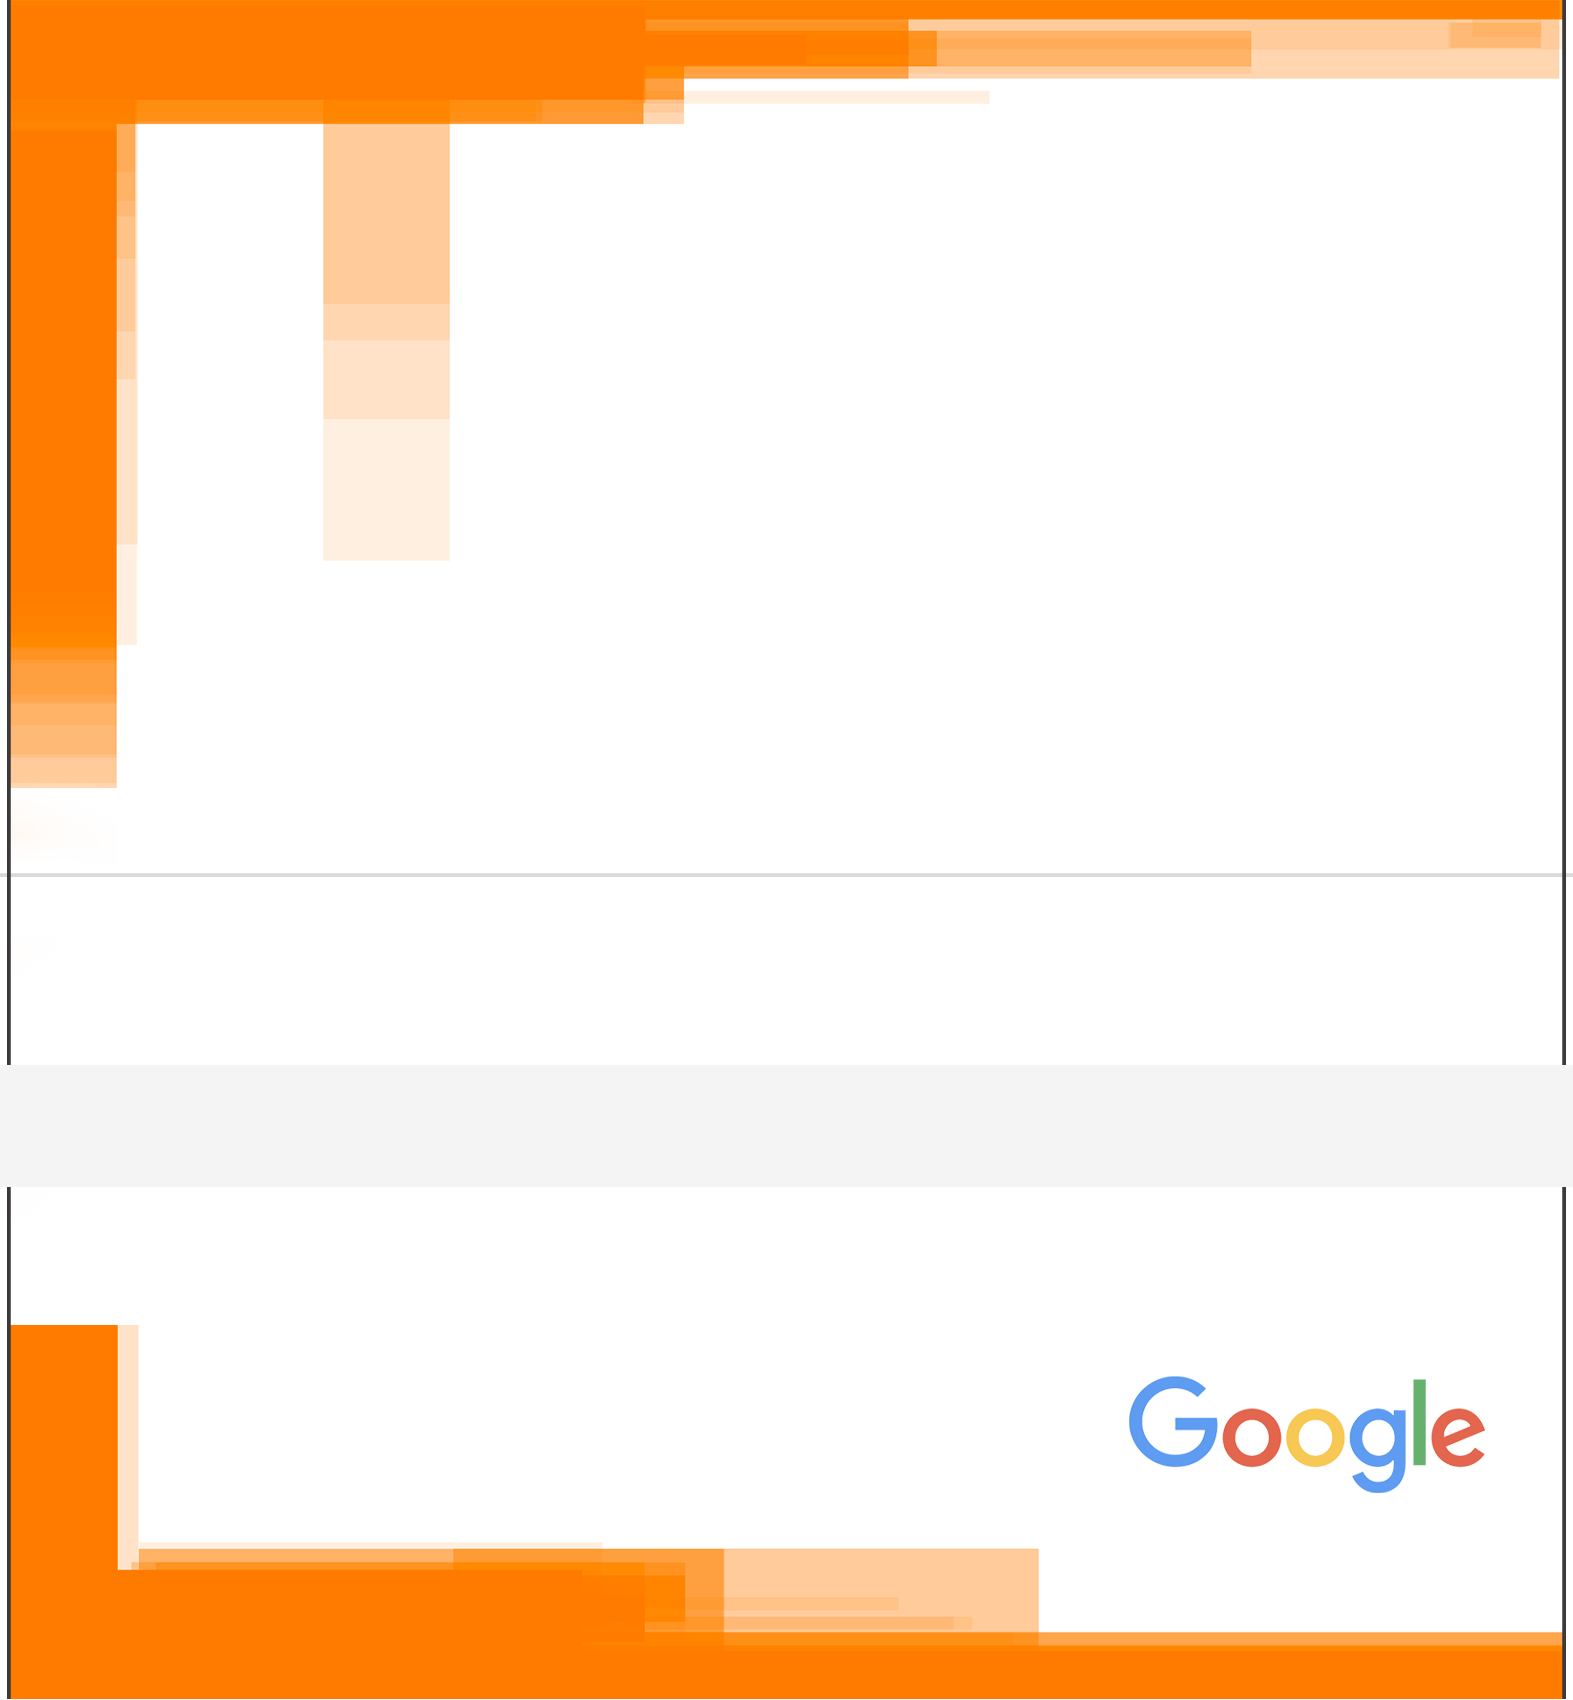
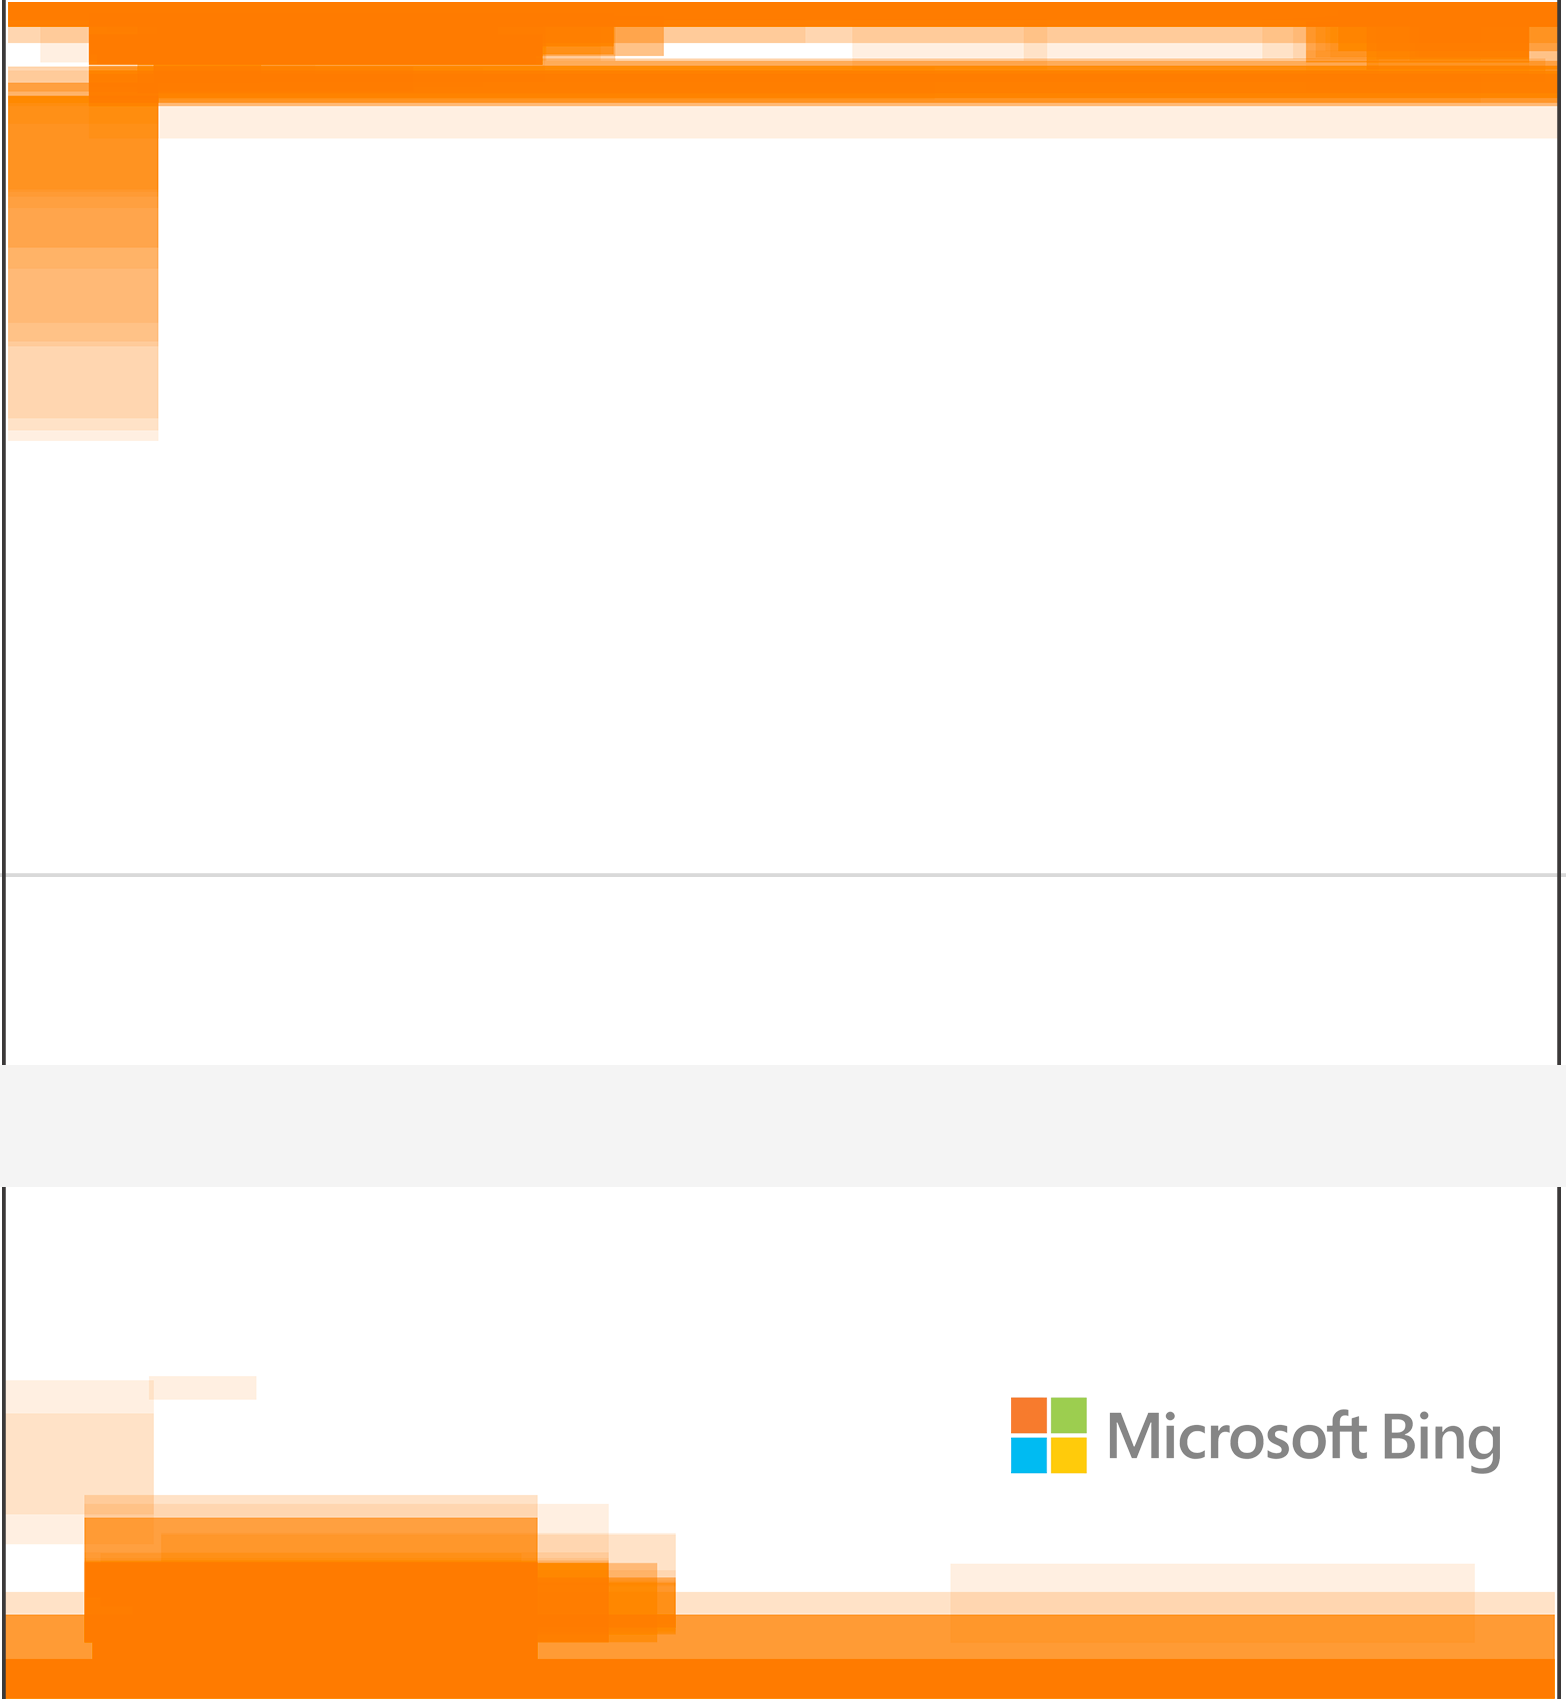
bing timelines aligned in time

Changed region(s): [[0.0, 0.0, 1.0, 0.6235], [0.0, 0.6859, 1.0, 1.0]]

diff --git a/pages/design.js b/pages/design.js
@@ -11,11 +11,11 @@ import interfaces_evol, {
   navigation_evol,
 } from "../data/interfaces";
 
-export function dynamicTimeline(category, engine) {
+export function dynamicTimeline(category, engine, decade) {
   const entries_engine =
     engine == "G"
       ? [
-          interfaces_evol.google,
+          decade == 1 ? interfaces_evol.google_fd : interfaces_evol.google_sd,
           logo_evol.google,
           statistics_evol.google,
           navigation_evol.google,
@@ -106,7 +106,7 @@ export default function Design() {
                 <img src={"./assets/google.png"} />
               </div>
             </div>
-            {dynamicTimeline(category, "G")}
+            {dynamicTimeline(category, "G", 1)}
           </div>
           <div className="col-12 col-lg-6">
             <div className="d-flex flex-column align-items-center">
@@ -114,6 +114,11 @@ export default function Design() {
                 <img src={"./assets/bing.png"} />
               </div>
             </div>
+          </div>
+          <div className="col-12 col-lg-6">
+            {dynamicTimeline(category, "G", 2)}
+          </div>
+          <div className="col-12 col-lg-6">
             {dynamicTimeline(category, "B")}
           </div>
         </div>

diff --git a/data/interfaces.js b/data/interfaces.js
@@ -1,14 +1,6 @@
 const interfaces_evol = {
-  google: [
-    "20001.png",
-    "20002.png",
-    "2006.png",
-    "2010.png",
-    "2012.png",
-    "2014.png",
-    "2015.png",
-    "2018.png",
-  ],
+  google_fd: ["20001.png", "20002.png", "2006.png"],
+  google_sd: ["2010.png", "2012.png", "2014.png", "2015.png", "2018.png"],
   bing: ["2010.png", "2013.png", "2016.png", "2018.png", "2020.png"],
 };
 
